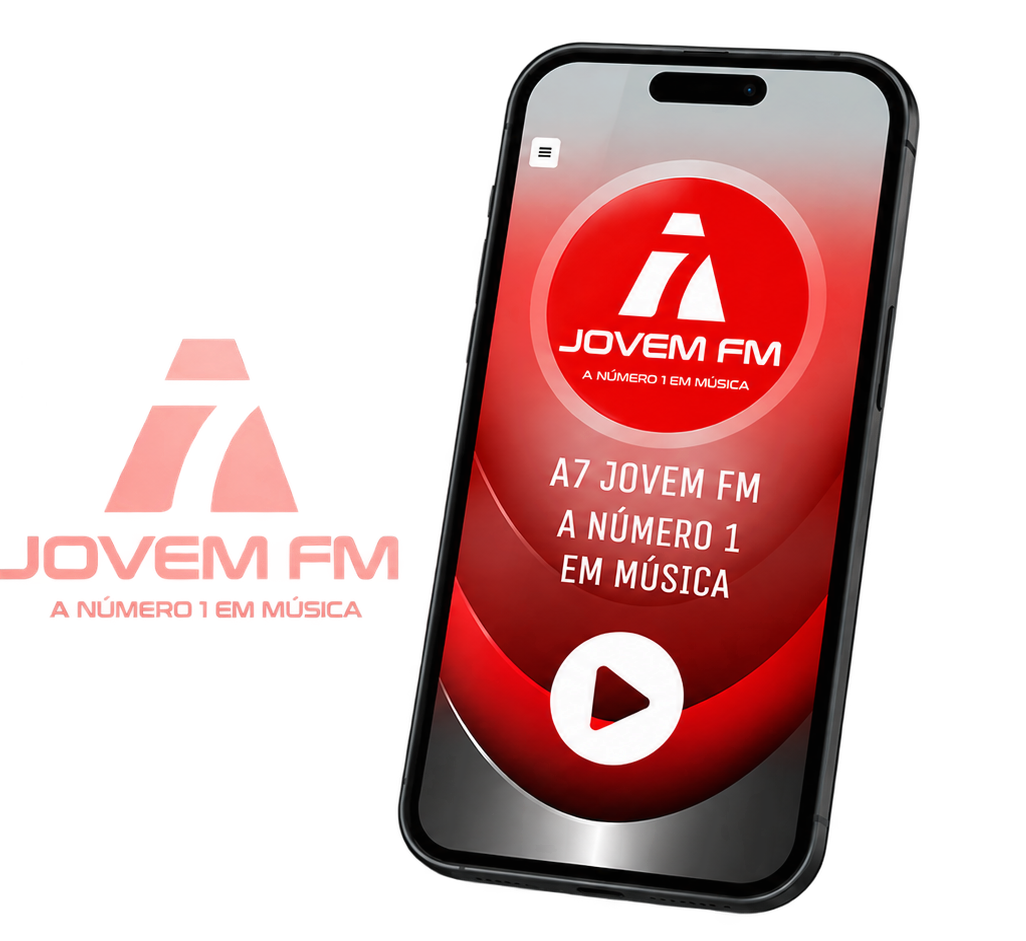
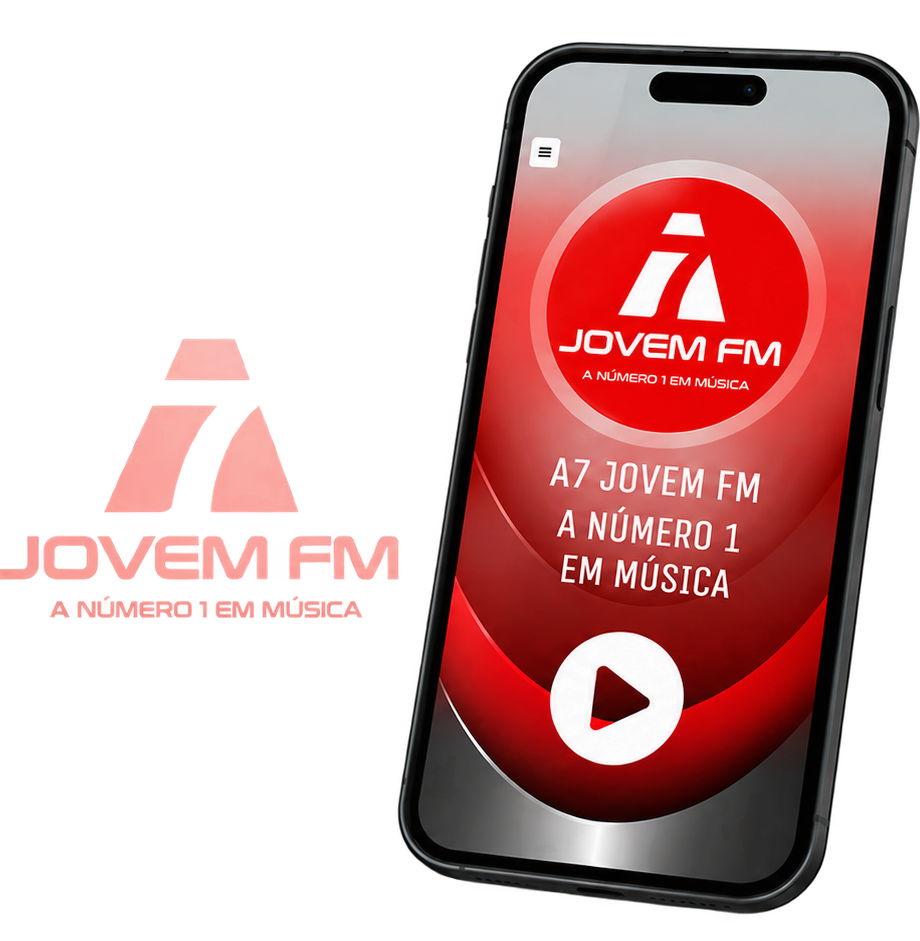
adjust mockup responsivity

diff --git a/index.html b/index.html
@@ -312,31 +312,37 @@
           </div>
         </section>
         <section id="app" class="app-section" aria-labelledby="app-title">
-          <div class="app-copy">
-            <p class="eyebrow">A7 NO SEU CELULAR</p>
-            <h2 id="app-title">Sua rádio vai<br /><em>com você</em></h2>
-            <p>
-              Leve a A7 Jovem FM no bolso e ouça a programação onde estiver.
-            </p>
-            <a class="button" data-app target="_blank" rel="noopener noreferrer"
-              >BAIXAR O APP <span aria-hidden="true">↗</span
-              ><span class="sr-only"> (nova aba)</span></a
-            >
-          </div>
-          <div class="app-art">
-            <picture>
-              <source
-                media="(min-width: 640px)"
-                srcset="/images/app-mockup.webp"
-              />
-              <img
-                src="/images/app-mockup-mobile.webp"
-                width="1600"
-                height="900"
-                loading="lazy"
-                alt="A7 Jovem FM no celular"
-              />
-            </picture>
+          <div class="container app-section">
+            <div class="app-copy">
+              <p class="eyebrow">A7 NO SEU CELULAR</p>
+              <h2 id="app-title">Sua rádio vai<br /><em>com você</em></h2>
+              <p>
+                Leve a A7 Jovem FM no bolso e ouça a programação onde estiver.
+              </p>
+              <a
+                class="button"
+                data-app
+                target="_blank"
+                rel="noopener noreferrer"
+                >BAIXAR O APP <span aria-hidden="true">↗</span
+                ><span class="sr-only"> (nova aba)</span></a
+              >
+            </div>
+            <div class="app-art">
+              <picture>
+                <source
+                  media="(min-width: 640px)"
+                  srcset="/images/app-mockup.webp"
+                />
+                <img
+                  src="/images/app-mockup-mobile.webp"
+                  width="1600"
+                  height="900"
+                  loading="lazy"
+                  alt="A7 Jovem FM no celular"
+                />
+              </picture>
+            </div>
           </div>
         </section>
       </div>

diff --git a/src/styles.css b/src/styles.css
@@ -573,31 +573,32 @@ html {
 .app-copy {
   position: relative;
   z-index: 1;
-  width: 46%;
-  padding: 100px 32px 100px max(32px, calc((100vw - var(--container)) / 2));
+  width: 50%;
+  /* padding: 100px 32px 100px max(32px, calc((100vw - var(--container)) / 2)); */
+  padding: 100px 32px 100px 0;
 }
 .app-section h2 {
   font-size: clamp(48px, 5vw, 76px);
   margin-top: 18px;
 }
 .app-art {
-  position: absolute;
-  inset: 30px 0 30px 44%;
-  overflow: visible;
-  z-index: 10;
+  position: relative;
+  /* inset: 30px 0 30px 44%; */
+  z-index: 1;
+  width: 50%;
 }
 .app-art picture {
-  display: block;
   width: 100%;
   height: 100%;
+  object-fit: contain;
+  object-position: center;
 }
 .app-art img {
-  display: block;
   width: 100%;
   height: 100%;
   max-width: none;
   object-fit: contain;
-  object-position: right center;
+  object-position: center;
 }
 
 /* Encerramento de campanha e rodapé. */
@@ -748,9 +749,7 @@ html {
   .app-section {
     min-height: 640px;
   }
-  .app-art {
-    left: 45%;
-  }
+
   .final-inner {
     gap: 35px;
   }
@@ -816,16 +815,11 @@ html {
   .experience-copy {
     padding: 56px 28px;
   }
-  .app-copy {
-    width: 48%;
-    padding-left: var(--gutter);
-  }
+
   .app-section h2 {
     font-size: 48px;
   }
-  .app-art {
-    left: 48%;
-  }
+
   .final-inner {
     display: block;
   }
@@ -1064,15 +1058,9 @@ html {
     font-size: 52px;
   }
   .app-art {
-    position: relative;
-    inset: auto;
-    height: 460px;
-    z-index: 0;
-    margin: 12px 0 32px;
+    width: 100%;
   }
-  .app-art img {
-    object-position: right center;
-  }
+
   .final-cta {
     padding-block: 72px;
   }
@@ -1127,10 +1115,6 @@ html {
 @media (min-width: 701px) and (max-width: 850px) {
   .hero-photo img {
     object-position: 45% top;
-  }
-  .app-art {
-    top: 80px;
-    bottom: 80px;
   }
 }
 @media (max-width: 700px) {
